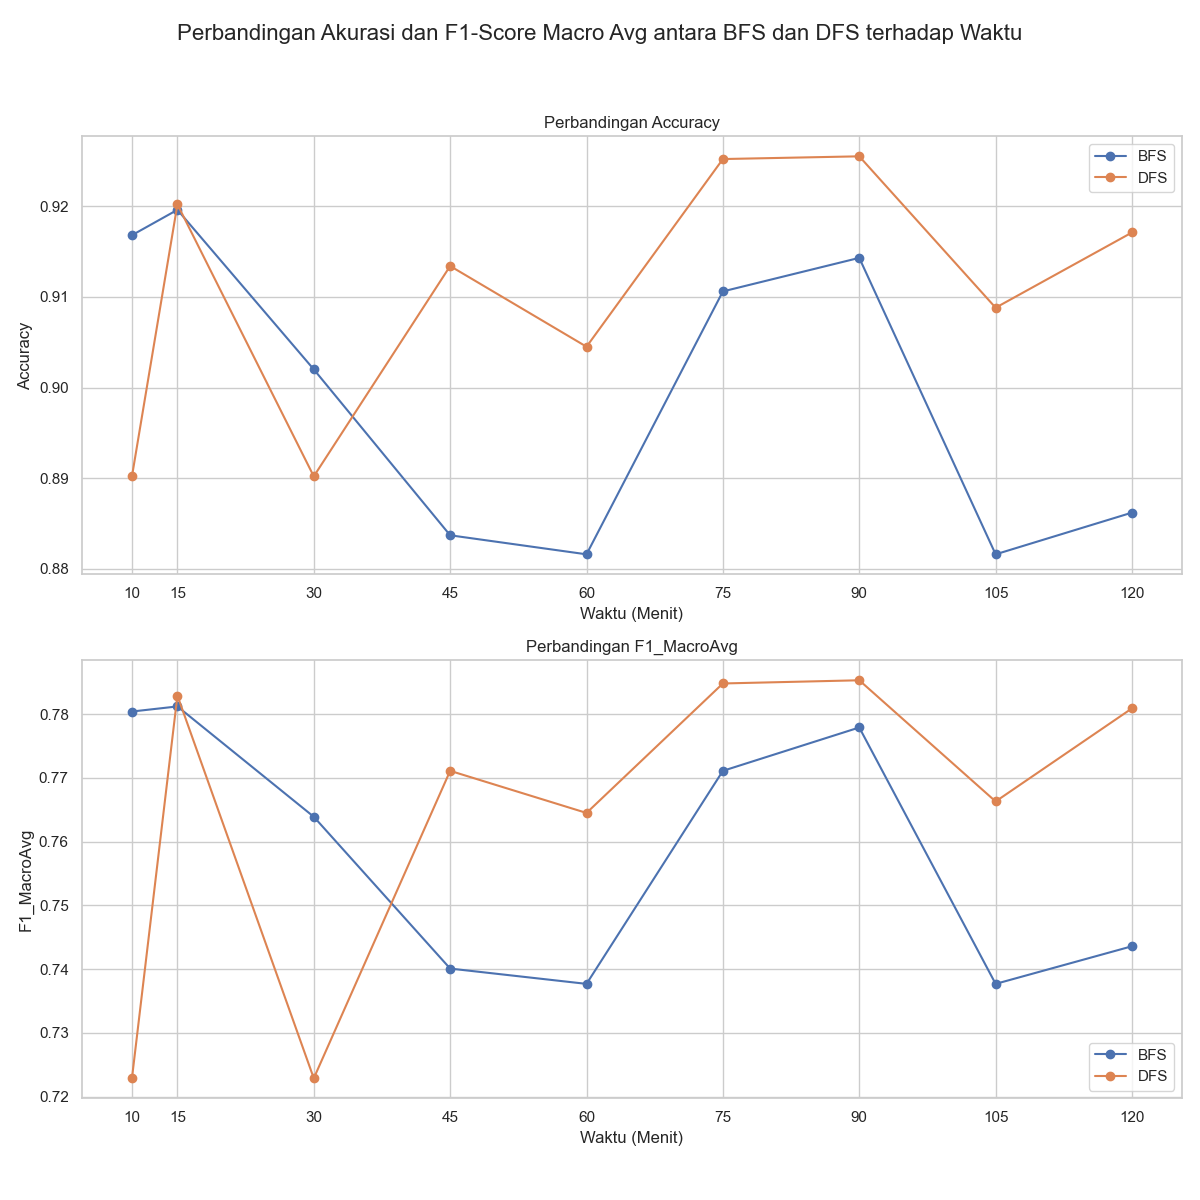
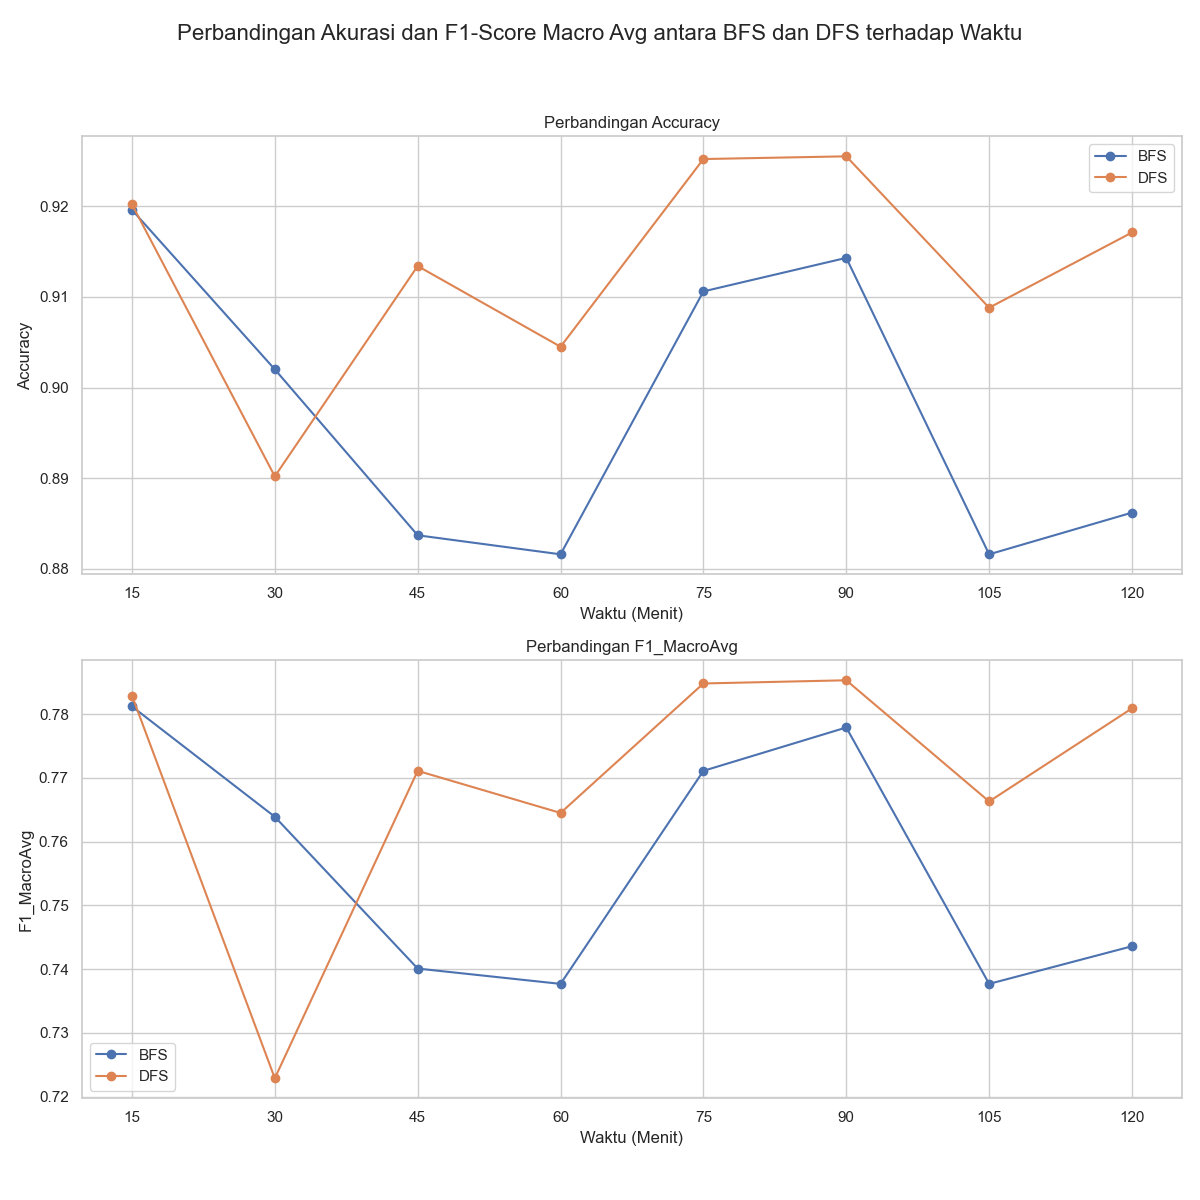
fix: update metric data for accuracy and F1-Score comparisons in visual automl script

diff --git a/10_visual-automl.py b/10_visual-automl.py
@@ -4,11 +4,11 @@ import seaborn as sns
 
 # Data hasil metrik (update)
 data = {
-    'Waktu': [10, 15, 30, 45, 60, 75, 90, 105, 120],
-    'BFS_Accuracy': [0.9168, 0.9196, 0.9020, 0.8837, 0.8816, 0.9106, 0.9143, 0.8816, 0.8862],
-    'BFS_F1_MacroAvg': [0.7804, 0.7812, 0.7639, 0.7401, 0.7377, 0.7711, 0.7779, 0.7377, 0.7436],
-    'DFS_Accuracy': [0.8902, 0.9202, 0.8902, 0.9134, 0.9045, 0.9252, 0.9255, 0.9088, 0.9171],
-    'DFS_F1_MacroAvg': [0.7229, 0.7829, 0.7229, 0.7711, 0.7645, 0.7848, 0.7853, 0.7663, 0.7809]
+    'Waktu': [15, 30, 45, 60, 75, 90, 105, 120],
+    'BFS_Accuracy': [0.9196, 0.9020, 0.8837, 0.8816, 0.9106, 0.9143, 0.8816, 0.8862],
+    'BFS_F1_MacroAvg': [0.7812, 0.7639, 0.7401, 0.7377, 0.7711, 0.7779, 0.7377, 0.7436],
+    'DFS_Accuracy': [0.9202, 0.8902, 0.9134, 0.9045, 0.9252, 0.9255, 0.9088, 0.9171],
+    'DFS_F1_MacroAvg': [0.7829, 0.7229, 0.7711, 0.7645, 0.7848, 0.7853, 0.7663, 0.7809]
 }
 
 # Membuat DataFrame
